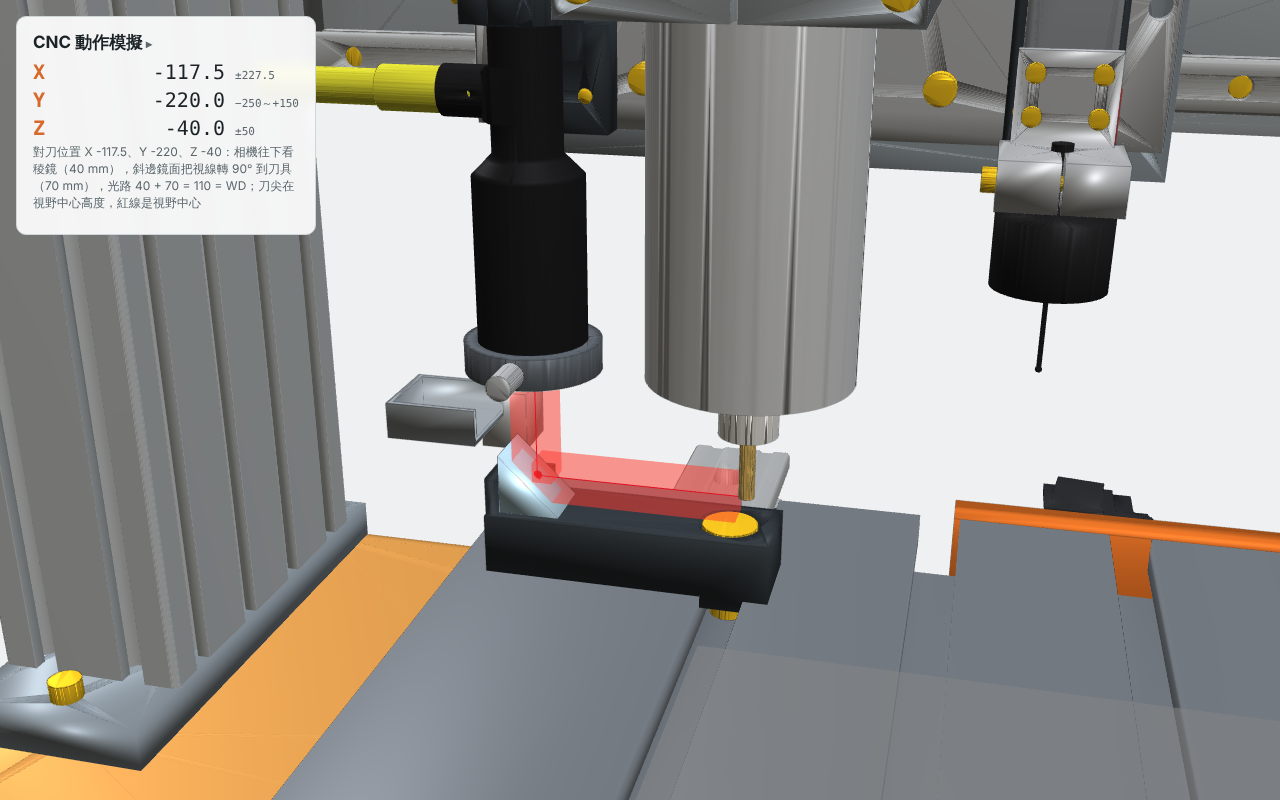
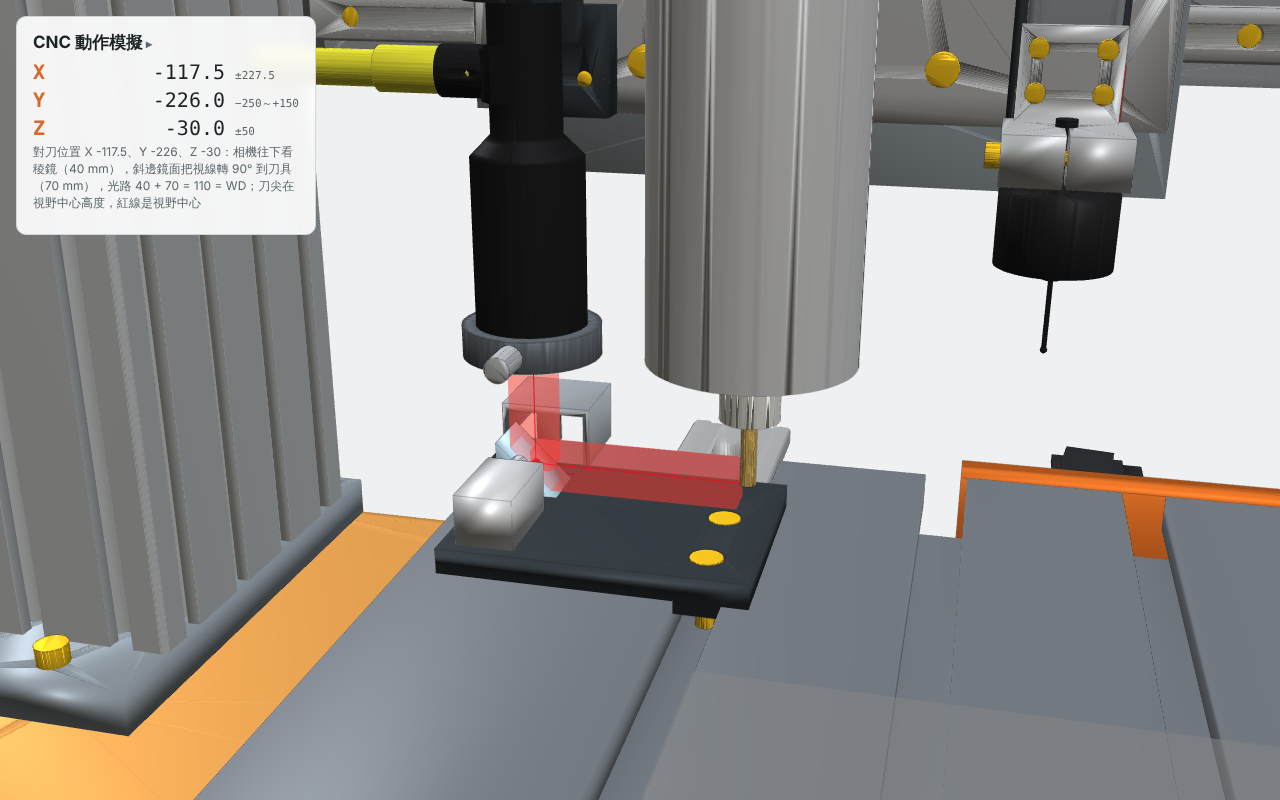
v13: Z assembly 25 lower + prism station lowered - sweeps 0 collisions (tool to the table at Z -50 allowed), tool-head check clean, pages and DXF updated
Claude-Session: https://claude.ai/code/session_013qHaQ5tGPE7u3XPh9aofnH

diff --git a/output/v13/toolhead/README.md b/output/v13/toolhead/README.md
@@ -10,12 +10,12 @@
 | 6 | Spindle plug | Spindle turned 90°, plug faces forward (−Y) |
 | 7 | Camera focus range | Spec limit: the camera sees work tops 0..25 mm above the table (focus plane = lens front − 110, Z +50 max; was 0..50 before item 11) |
 | 8 | Module stiffness / repeatability | Shim bolts spread to z 305 / 490 (185 apart, Z slide 30 longer at the bottom); spindle clamp located by 2 dowels D6 |
-| 9 | Optics protection | Pneumatic flip cover over the prism (open only for tool setting); lens air ring (no window, WD unchanged) |
+| 9 | Optics protection | Sliding cover over the prism (lid + skirts on both X sides, compact cylinder, slides 30 toward +Y only for tool setting); lens air ring (no window, WD unchanged) |
 | 10 | Probe signal | grblHAL probe input, NC wiring; not the MR-J4 MSD latch (point-table mode cannot take the pulse train) |
-| 11 | Z height | Whole Z assembly 25 lower on the saddle: tool tip (stick-out 22) reaches −5..95 above the table, i.e. Z −50 goes 5 below the table top (set the Z soft limit / use a sacrificial plate). Gantry clearance for work + fixture passing under the Z plate: 87 (was 112). Tool-setting pose Z −15 |
+| 11 | Z height | Whole Z assembly 25 lower on the saddle: tool tip (stick-out 22) reaches −5..95 above the table, i.e. Z −50 goes 5 below the table top (set the Z soft limit / use a sacrificial plate). Gantry clearance for work + fixture passing under the Z plate: 87 (was 112). Prism station lowered (fold 15 above the table, station top 29.5) so the spindle body, lens and air ring clear it at Z −50; only the tool / nozzle tips can reach into it, like any fixture. Tool-setting pose Z −30 |
 
-Prism: reflects +X, on the table T-slot x −130 at the rear-left corner (fold point x −195, y 200, z 140), outside the work area.
-Tool measured at X −117.5, table −220, Z −15 (stick-out 22).
+Prism: reflects +X, on the table T-slot x −130 at the rear-left corner (fold point x −195, y 206, z 125 = 15 above the table), outside the work area.
+Tool measured at X −117.5, table −226, Z −30 (stick-out 22).
 
 Table T-slots: DIN 650 14 at x 0 / ±65 / ±130 (moved from ±80 / ±160, clear of the Y rail M12 taps).
 
